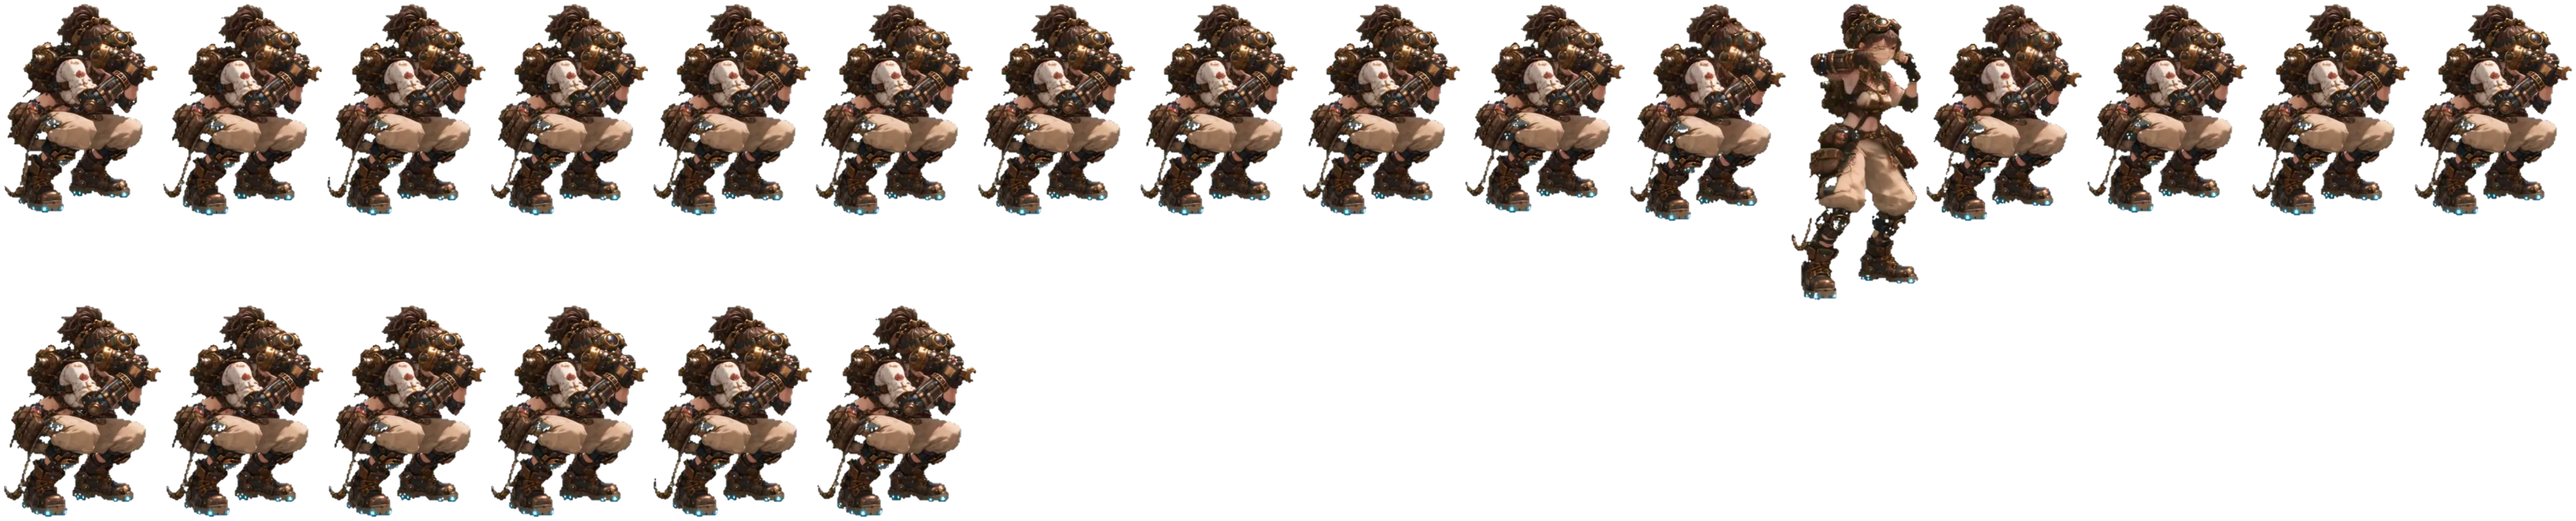
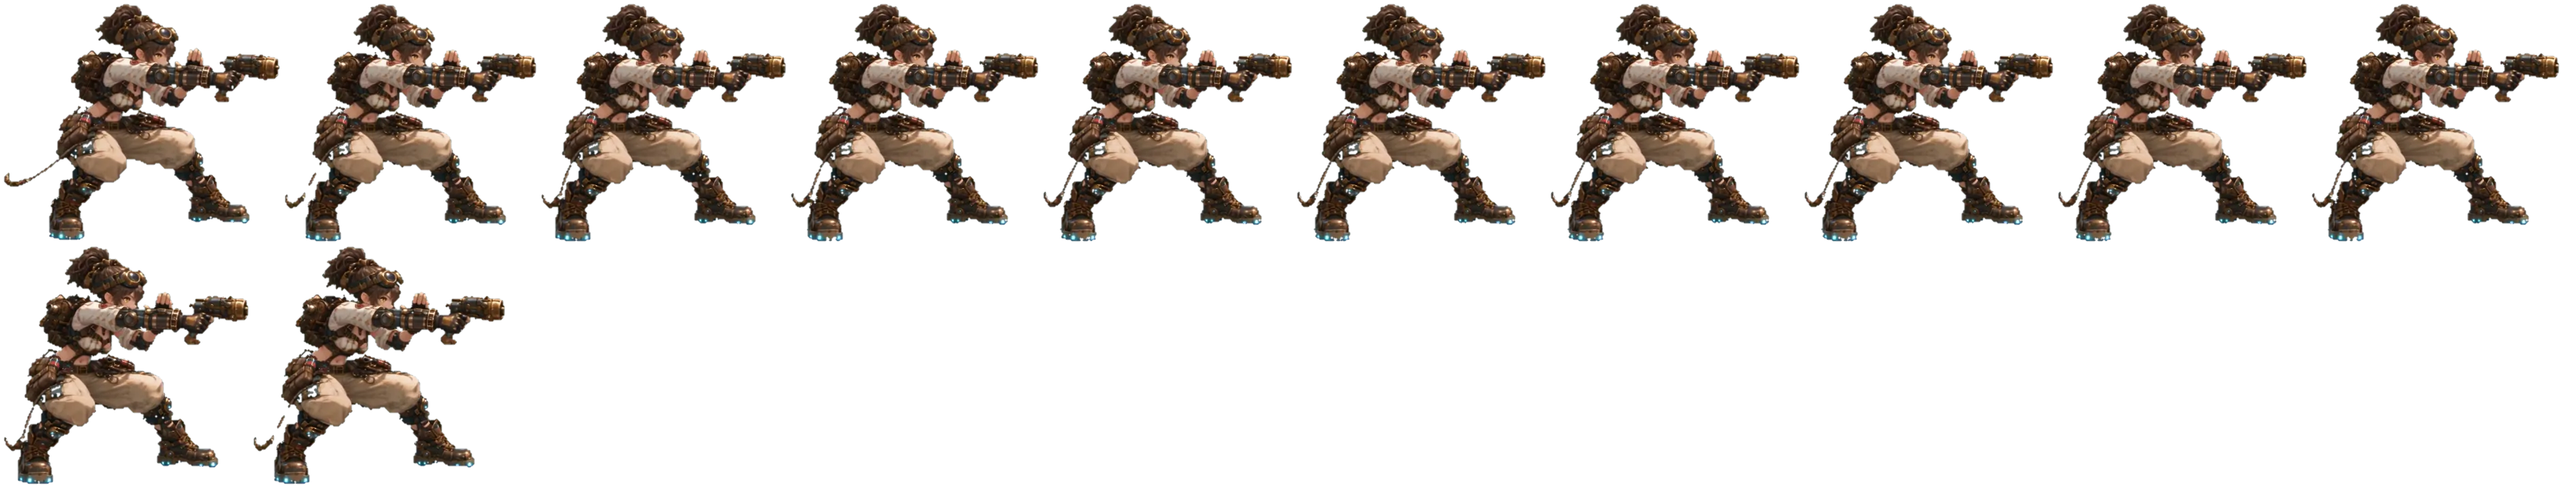
ARIA fixes: idle faces the foe (launcher-aim crouch), jump and wire-flight frames scaled to the stance size, wire dash is a straight line and fires the second wire immediately
Claude-Session: https://claude.ai/code/session_01Wu7CtpEy7pdFZXyepR6PVB

diff --git a/game.js b/game.js
@@ -205,7 +205,7 @@ function pickFrame(f) {
       }
       if (f.id === 'aria') {
         if (m.key === 'a') { const n = ['a1', 'a2', 'a3'][Math.min(2, f.chain)]; return prog(a[n] ? n : 'a', p); }
-        if (m.key === 'b' || m.key === 'ex') { const z = m.zip; if (!z || z.phase === 'wind') return prog('b', Math.min(.55, t / Math.max(1, m.st) * .55)); if (z.phase === 'fire') return prog('b', .55 + .45 * Math.min(1, z.ft / 6)); if (z.phase === 'zip') return loop('ex', AN.fps.ex || 18); if (z.phase === 'turn') return prog('b', .55 + .45 * Math.min(1, z.ft / 8)); return at('jump', 2); }
+        if (m.key === 'b' || m.key === 'ex') { const z = m.zip; if (!z || z.phase === 'wind') return prog('b', Math.min(.55, t / Math.max(1, m.st) * .55)); if (z.phase === 'fire') return prog('b', .55 + .45 * Math.min(1, z.ft / 6)); if (z.phase === 'zip') return loop('ex', AN.fps.ex || 18); if (z.phase === 'turn') return at('b', 99); return at('jump', 2); }
         if (m.key === 'ult') { const u = t - m.st, U = ARIA_ULT; if (u < U.fire) return loop('ultCharge', AN.fps.ultCharge || 10); return prog('ultFire', Math.min(1, (u - U.fire) / 30)); }
       }
       if (f.id === 'mio') {
@@ -1092,23 +1092,23 @@ function updateAriaMove(f, o, m, t, k, act, at, dt, first) {
 // WIRE DASH (special) / GRAVITY SLING (EX): fires her wire to the edge of the screen and rockets there, hitting everything on
 // the way; on arrival she fires again at the opposite edge and crosses the whole screen a second time. The EX version
 // hits several times per pass and drags the foe along in her gravity wake.
+const ARIA_LINE = 70;   // height of the straight wire dash above the floor
 function screenEdge(dir) { const half = W / 2 / (G.cam.z || 1); return clamp(G.cam.x + dir * (half - 95), 90, STAGE_W - 90); }
 function ariaWireDash(f, o, m, t, k, at, dt, first) {
   const EX = k === 'ex', z = m.zip || (m.zip = { pass: 0, phase: 'wind', ft: 0, hit: 0, multi: EX ? 3 : 1, next: 0 });
   const startPass = () => {
-    z.dir = z.pass === 0 ? f.face : -z.dir; z.tx = screenEdge(z.dir); z.ty = GROUND - 430; z.phase = 'fire'; z.ft = 0; z.hit = 0; z.next = 0; z.x0 = f.x;
+    z.dir = z.pass === 0 ? f.face : -z.dir; z.tx = screenEdge(z.dir); z.ty = GROUND - ARIA_LINE - 150; z.phase = 'fire'; z.ft = 0; z.hit = 0; z.next = 0; z.x0 = f.x;
     f.face = z.dir; const h = ariaHand(f); fxWire(h.x, h.y, z.tx + z.dir * 60, z.ty, 14); fxGears(z.tx + z.dir * 60, z.ty, 6, .9, -z.dir);
     playS('laser_shot', .55, .7); sfx.dash();
   };
   if (z.phase === 'wind') { f.vx *= .6; if (at >= 0) startPass(); return; }
   if (z.phase === 'land') return;   // drops back to the floor under normal gravity
   z.ft += dt; f.vx = 0; f.vy = -GRAV * dt;   // hangs on the wire: no gravity
-  if (z.phase === 'fire') { if (z.ft >= 6) { z.phase = 'zip'; z.ft = 0; flash(EX ? .3 : .15, BRASS.teal); G.speedlines = 30; shake(5); } return; }
+  if (z.phase === 'fire') { if (z.ft >= 4) { z.phase = 'zip'; z.ft = 0; flash(EX ? .3 : .15, BRASS.teal); G.speedlines = 30; shake(5); } return; }
   if (z.phase === 'zip') {
     const sp = EX ? 54 : 46, px = f.x, d = z.tx - f.x;
     f.x += clamp(d, -sp * dt, sp * dt);
-    const span = Math.max(1, Math.abs(z.tx - z.x0)), q = clamp(Math.abs(f.x - z.x0) / span, 0, 1);
-    f.y = GROUND - Math.sin(q * Math.PI) * (EX ? 170 : 120);   // swings in an arc under the wire
+    f.y = GROUND - ARIA_LINE;   // reeled in along a dead-straight line
     // effects: live wire, after-images, rail, thruster wash, speed streaks
     const h = ariaHand(f); fxWire(h.x, h.y, z.tx + z.dir * 60, z.ty, 3);
     f.trail.push(1); f.rail.push({ x: f.x - z.dir * 30, y: f.y - 60, t: G.frame }); fxThrust(f, f.x - z.dir * 30, f.y - 50, z.dir, 3);
@@ -1130,7 +1130,7 @@ function ariaWireDash(f, o, m, t, k, at, dt, first) {
     }
     return;
   }
-  if (z.phase === 'turn') { if (z.ft >= 8) startPass(); return; }
+  if (z.phase === 'turn') { if (z.ft >= 3) startPass(); return; }   // fires the next wire at once
 }
 // ULT LUNA SATELLITE RAY: she calls the lunar satellite; the moon rises over the arena, a target lock follows the foe,
 // then a colossal beam comes straight down from orbit and burns the floor before a final detonation.

diff --git a/tools/sprite_tool.py b/tools/sprite_tool.py
@@ -135,7 +135,11 @@ def pack(cfg):
             bx1, by1 = min(im.width, bx1 + 2), min(im.height, by1 + 2)
             g = cfg['anims'][name].get('group')
             ax, ay = gref[g] if g else (anchorX, ground)
-            crops.append((im.crop((bx0, by0, bx1, by1)), bx0 - ax + cfg['anims'][name].get('dx', 0), by0 - ay + cfg['anims'][name].get('dy', 0)))   # dx/dy: per-clip offset when the source drifted
+            c = im.crop((bx0, by0, bx1, by1)); ox, oy = bx0 - ax, by0 - ay
+            sc = cfg['anims'][name].get('scale', 1)   # scale: the generator zoomed in on this clip; shrink it back to the stance size
+            if sc != 1:
+                c = c.resize((max(1, round(c.width * sc)), max(1, round(c.height * sc))), Image.LANCZOS); ox *= sc; oy *= sc
+            crops.append((c, ox + cfg['anims'][name].get('dx', 0), oy + cfg['anims'][name].get('dy', 0)))   # dx/dy: per-clip offset when the source drifted
         # shelf packing into one atlas
         x = y = pad; rowH = 0; place = []
         for c, ox, oy in crops:
